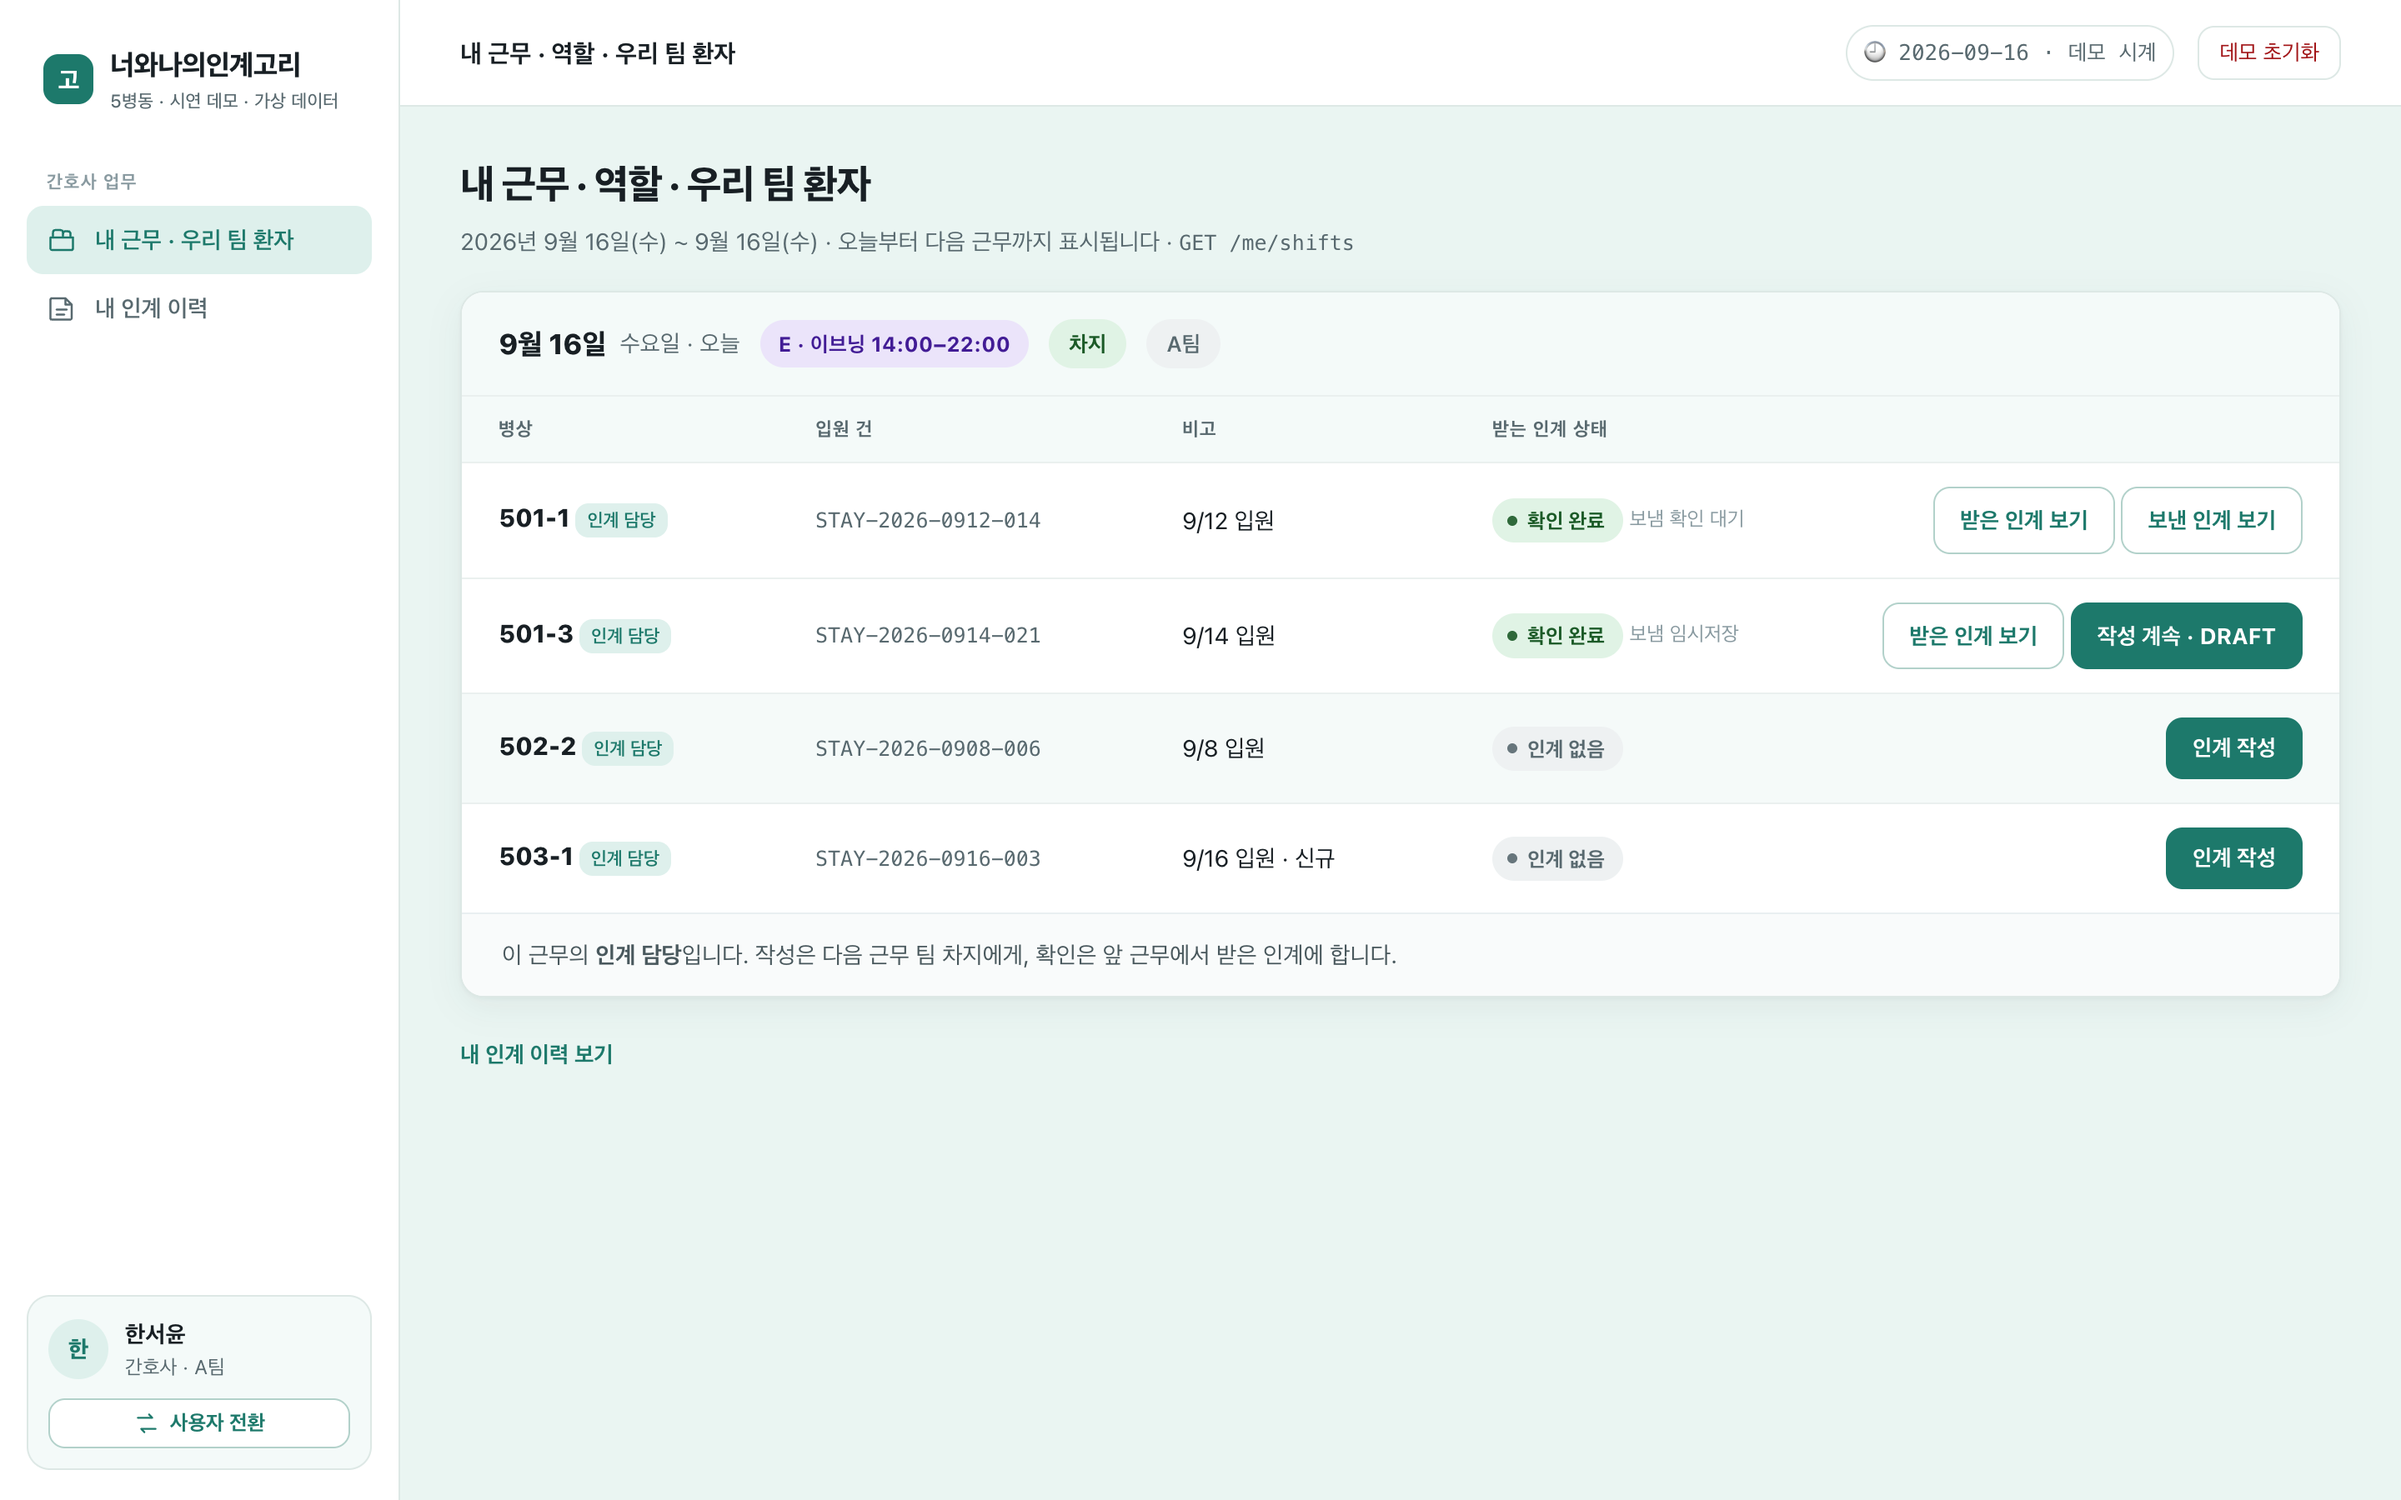
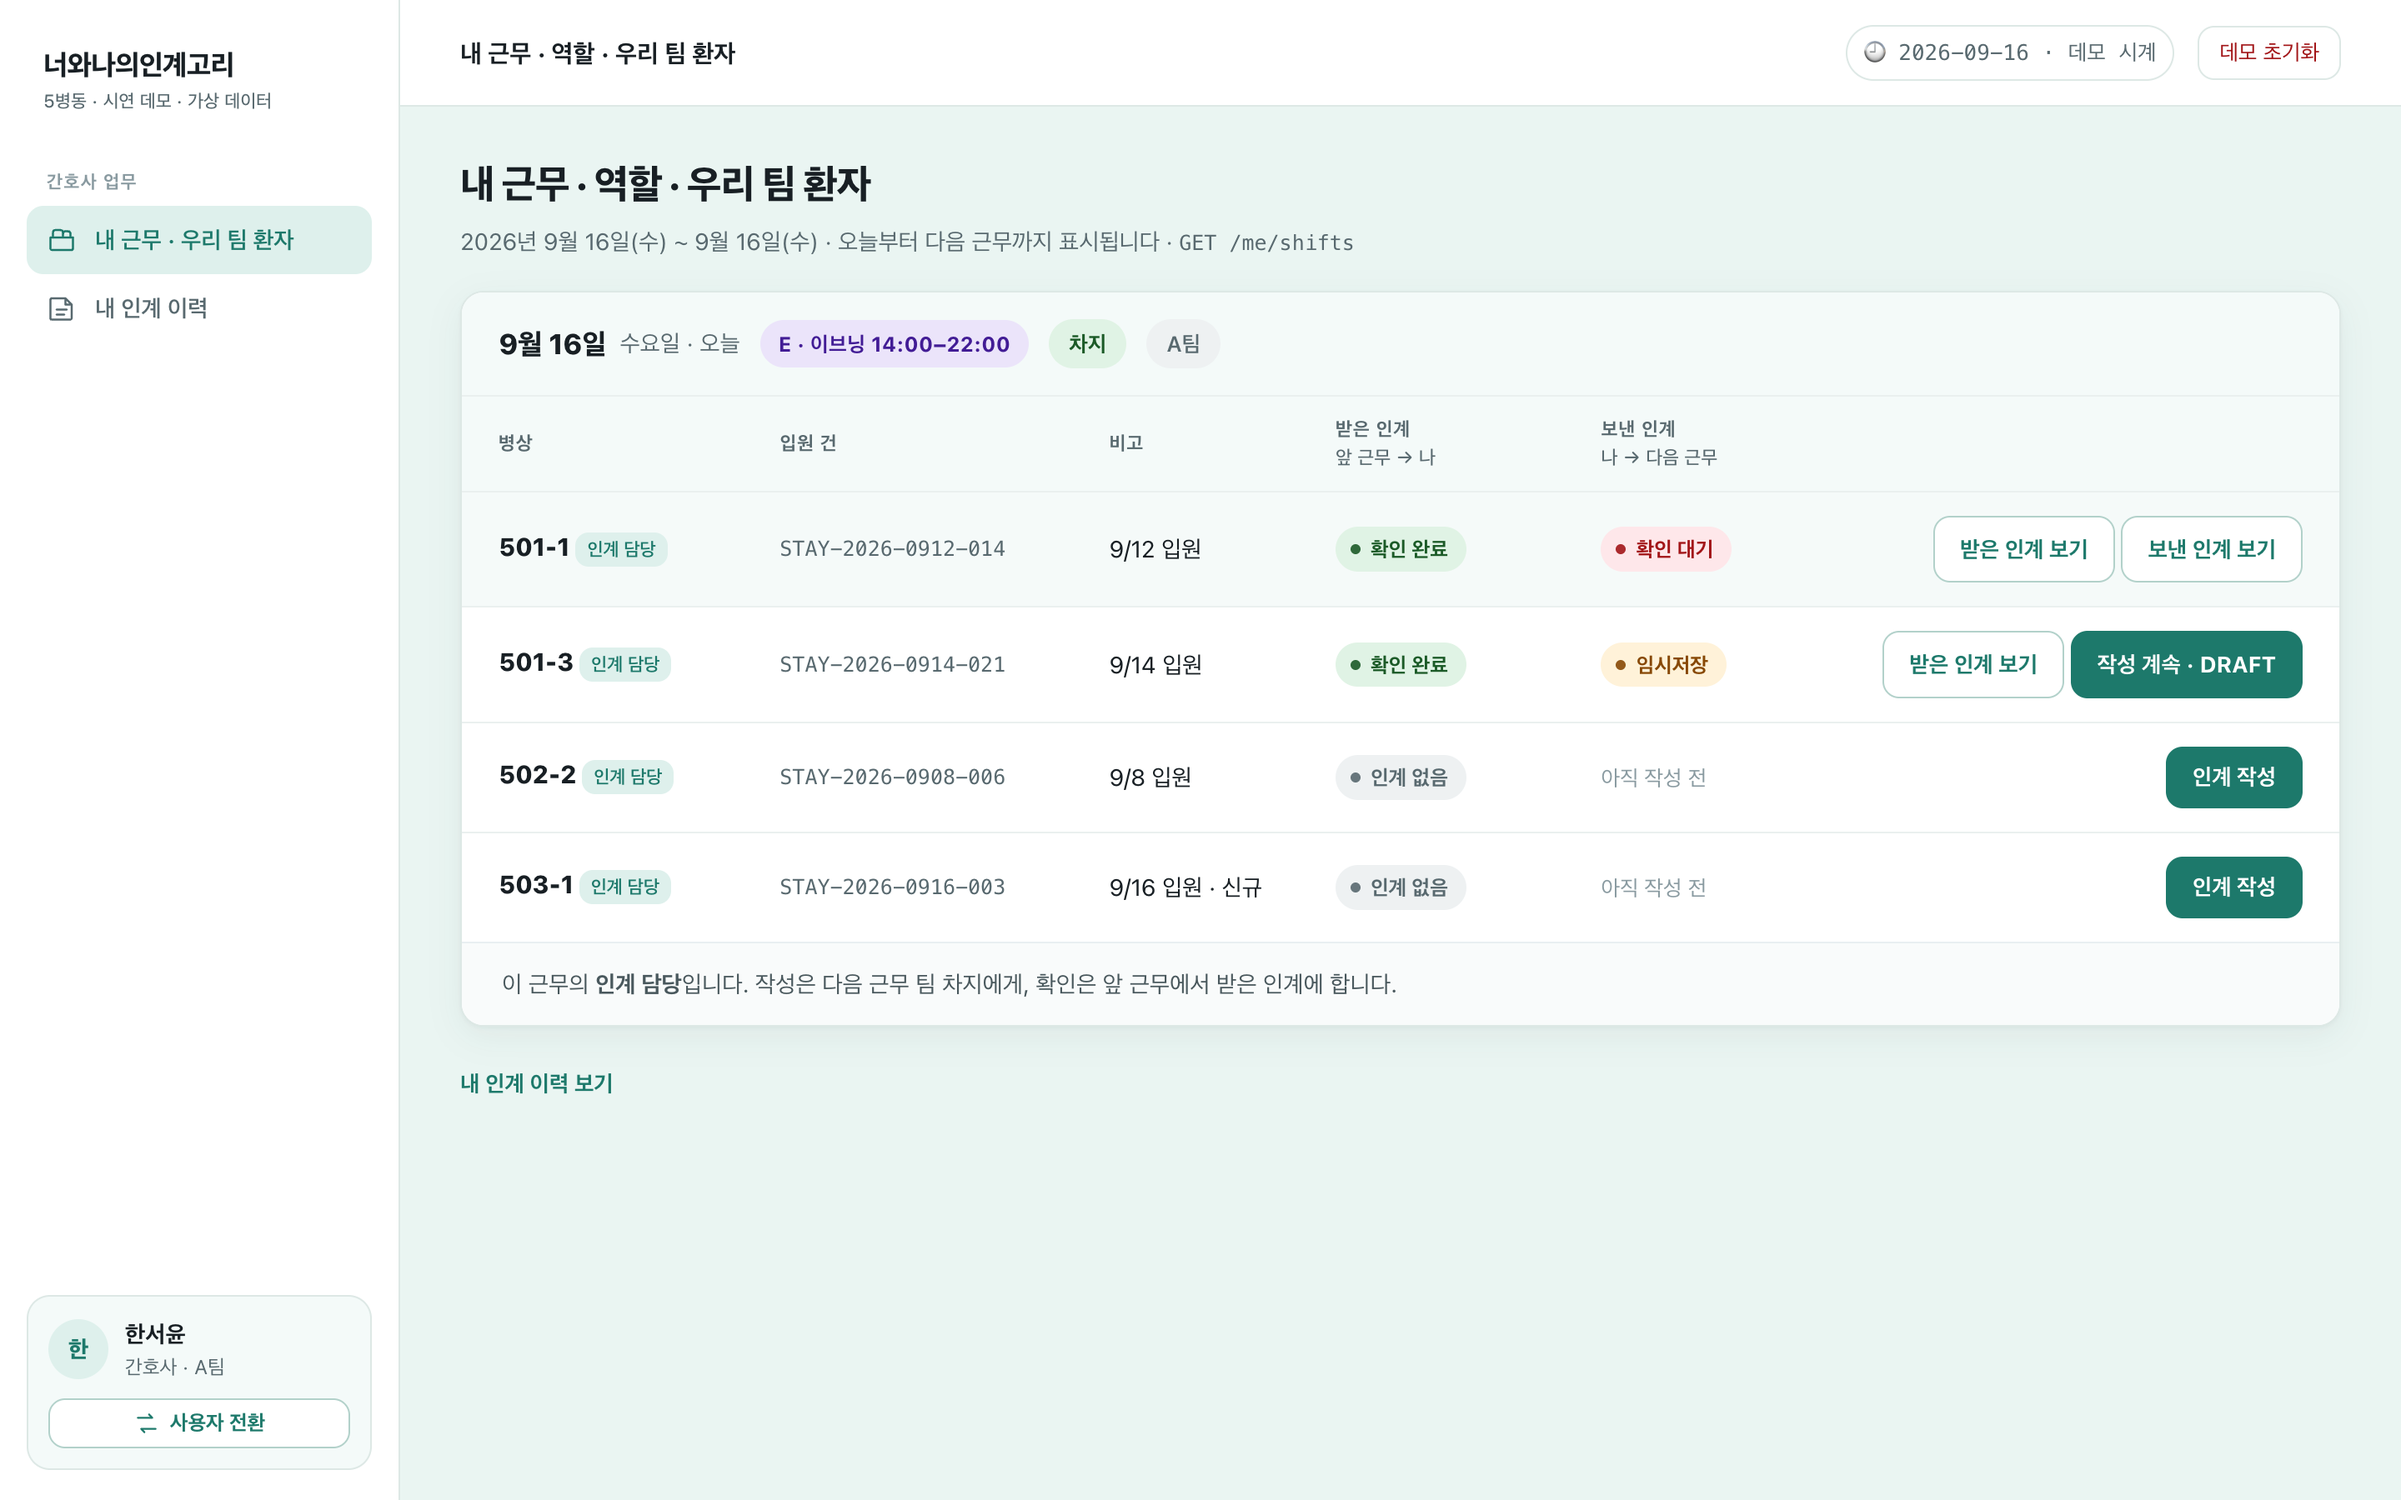
feat: 내 근무 화면 받은/보낸 인계 두 열 분리 · 로고 박스 제거(브랜드=홈 링크) · API 패널 JSON 들여쓰기
- 화면 8: '받는 인계 상태' 한 칸 → '받은 인계(앞 근무→나)' · '보낸 인계(나→다음 근무)'
- 사이드바 브랜드를 홈 링크로(수간호사 대시보드 / 간호사 내 근무), '고' 로고 박스 삭제
- API 로그 패널: 요청/응답을 2칸 들여쓰기 JSON 으로 · 폭 640 · 긴 응답은 앞 60줄
- 캡처 8·8_states 재촬영

diff --git a/demo/css/base.css b/demo/css/base.css
@@ -28,7 +28,8 @@ button{font-family:inherit}
 .side{width:240px;flex:0 0 240px;background:var(--surface);border-right:1px solid var(--line);position:sticky;top:0;height:100vh;display:flex;flex-direction:column;padding:22px 16px 18px}
 body.no-shell .side,body.no-shell .topbar{display:none}
 .main{flex:1;min-width:0;display:flex;flex-direction:column}
-.brand{display:flex;align-items:center;gap:10px;padding:4px 10px 18px;font-size:17px;font-weight:800;letter-spacing:-.4px;color:var(--text)}
+.brand{display:flex;align-items:center;gap:10px;padding:4px 10px 18px;font-size:17px;font-weight:800;letter-spacing:-.4px;color:var(--text);text-decoration:none;border-radius:var(--r-sm);transition:opacity var(--t)}
+.brand:hover{opacity:.75}
 .brand .logo{width:30px;height:30px;border-radius:9px;background:var(--primary);color:#fff;display:inline-flex;align-items:center;justify-content:center;font-size:15px;font-weight:800}
 .brand small{display:block;font-size:11px;font-weight:500;color:var(--muted);letter-spacing:0;margin-top:1px}
 .nav-grp{font-size:11px;font-weight:700;color:var(--muted-2);letter-spacing:.06em;text-transform:uppercase;padding:14px 12px 6px}
@@ -228,7 +229,7 @@ input[type=checkbox]{accent-color:var(--primary);width:16px;height:16px}
 .ucard .order{position:absolute;top:10px;right:10px;width:22px;height:22px;border-radius:50%;background:var(--primary);color:#fff;font-size:12px;font-weight:800;display:inline-flex;align-items:center;justify-content:center}
 
 /* API 패널 — 우하단 알약 */
-.apilog{position:fixed;right:22px;bottom:18px;z-index:9;width:560px;display:flex;flex-direction:column;align-items:flex-end;font-family:ui-monospace,Menlo,Consolas,monospace;font-size:12.5px}
+.apilog{position:fixed;right:22px;bottom:18px;z-index:9;width:640px;display:flex;flex-direction:column;align-items:flex-end;font-family:ui-monospace,Menlo,Consolas,monospace;font-size:12.5px}
 .apilog .bar{display:flex;align-items:center;gap:10px;max-width:100%;padding:9px 14px;border-radius:999px;background:#1F2A30;color:#DDE6E9;cursor:pointer;box-shadow:0 8px 24px rgba(20,40,40,.25);border:2px solid transparent;transition:border-color var(--t)}
 .apilog .bar .lbl{font-weight:800;color:#7FE0D2}
 .apilog .bar .code{color:#fff;font-family:inherit;font-size:12.5px;white-space:nowrap;overflow:hidden;text-overflow:ellipsis}
@@ -236,10 +237,11 @@ input[type=checkbox]{accent-color:var(--primary);width:16px;height:16px}
 .apilog.err .bar{border-color:#FF8A80;animation:shake 320ms ease}
 @keyframes shake{20%{transform:translateX(-4px)}40%{transform:translateX(4px)}60%{transform:translateX(-3px)}80%{transform:translateX(3px)}}
 .apilog .s2{color:#7CD992}.apilog .s4{color:#FF8A80;font-weight:800}
-.apilog .body{display:none;width:100%;max-height:300px;overflow:auto;margin-bottom:8px;background:#1F2A30;color:#DDE6E9;border-radius:var(--r);padding:8px 16px;box-shadow:0 8px 24px rgba(20,40,40,.25);order:-1}
+.apilog .body{display:none;width:100%;max-height:420px;overflow:auto;margin-bottom:8px;background:#1F2A30;color:#DDE6E9;border-radius:var(--r);padding:8px 16px;box-shadow:0 8px 24px rgba(20,40,40,.25);order:-1}
 .apilog.open .body{display:block}
 .apilog .ent{padding:8px 0;border-bottom:1px solid #2C3B42;display:grid;grid-template-columns:44px 1fr;gap:8px}
-.apilog .ent pre{margin:3px 0 0;white-space:pre-wrap;color:#9FB3BA;font-size:11.5px;grid-column:2;word-break:break-all}
+.apilog .ent pre{margin:6px 0 0;white-space:pre;overflow-x:auto;color:#C9D6DB;font-size:11.5px;line-height:1.5;grid-column:2;tab-size:2}
+.apilog .ent pre b{color:#7FE0D2;font-weight:700}
 .apilog .ent .code{color:#fff;font-family:inherit;font-size:12px}
 .btn svg{width:16px;height:16px;flex:0 0 16px;stroke:currentColor;fill:none;stroke-width:1.8;stroke-linecap:round;stroke-linejoin:round}
 #err{scroll-margin-top:84px}

diff --git a/demo/js/views.js b/demo/js/views.js
@@ -274,9 +274,10 @@
           else if (t.is_handover_owner && t.outgoing_status === 'DRAFT') acts.push('<a class="btn" href="#/handover/' + t.outgoing_handover_id + '/write">작성 계속 · DRAFT</a>');
           else if (t.outgoing_handover_id) acts.push('<a class="btn sec" href="#/handover/' + t.outgoing_handover_id + '/write">보낸 인계 보기</a>');
           var act = acts.join(' ') || '<span class="muted">작성은 팀 차지</span>';
-          return '<tr><td class="bed">' + h(t.bed_no) + (t.is_handover_owner ? ' <span class="chip" style="font-size:11px;padding:2px 7px">인계 담당</span>' : '') + '</td><td class="code">' + h(t.patient_ref_code) + '</td><td>' + note + '</td><td>' + A().badge(t.handover_status) + (t.outgoing_status ? ' <span class="muted" style="font-size:12px">보냄 ' + h(A().STATUS_KO[t.outgoing_status]) + '</span>' : '') + '</td><td class="act">' + act + '</td></tr>';
+          var outCell = t.is_handover_owner ? (t.outgoing_status ? A().badge(t.outgoing_status) : '<span class="muted">아직 작성 전</span>') : '<span class="muted">—</span>';
+          return '<tr><td class="bed">' + h(t.bed_no) + (t.is_handover_owner ? ' <span class="chip" style="font-size:11px;padding:2px 7px">인계 담당</span>' : '') + '</td><td class="code">' + h(t.patient_ref_code) + '</td><td style="white-space:nowrap">' + note + '</td><td>' + A().badge(t.handover_status) + '</td><td>' + outCell + '</td><td class="act">' + act + '</td></tr>';
         }).join('');
-        body = '<table><thead><tr><th style="width:190px">병상</th><th style="width:220px">입원 건</th><th>비고</th><th style="width:230px">받는 인계 상태</th><th style="width:300px"></th></tr></thead><tbody>' + rows + '</tbody></table>' +
+        body = '<table><thead><tr><th style="width:170px">병상</th><th style="width:200px">입원 건</th><th style="white-space:nowrap">비고</th><th style="width:160px">받은 인계<br><span style="font-weight:500;text-transform:none;letter-spacing:0">앞 근무 → 나</span></th><th style="width:170px">보낸 인계<br><span style="font-weight:500;text-transform:none;letter-spacing:0">나 → 다음 근무</span></th><th style="width:270px"></th></tr></thead><tbody>' + rows + '</tbody></table>' +
           '<div style="padding:14px 24px;font-size:14px;color:#5B6B70;background:#FAFCFC;border-top:1px solid #EDF2F4">' + (anyOwner ? '이 근무의 <b>인계 담당</b>입니다. 작성은 다음 근무 팀 차지에게, 확인은 앞 근무에서 받은 인계에 합니다.' : '액팅은 우리 팀 인계를 <b>열람</b>합니다. 인계 작성·확인은 이 근무의 <b>' + h(s.team_name) + ' 차지(인계 담당)</b>가 합니다.') + '</div>';
       }
       return '<div class="card"><div class="card-h' + (s.work_date === today ? ' today' : '') + '"><span class="date">' + A().dLabel(s.work_date).replace(/\(.\)$/, '') + '</span><span class="dow">' + A().dow(s.work_date) + (s.work_date === today ? ' · 오늘' : '') + '</span>' + A().shiftTag(s.shift_code) + A().roleBadge(s.role_name) + '<span class="role none">' + h(s.team_name || '—') + '</span><span class="sp"></span>' + (s.is_absent ? '<span class="flag" style="color:#B3261E;background:#FFEDEE;border-color:#F5C6C4">결원 (ABSENT)</span>' : '') + (s.has_reassignment ? '<span class="flag">결원 재배정 이력 있음</span>' : '') + '</div>' + body + '</div>';

diff --git a/demo/js/app.js b/demo/js/app.js
@@ -72,7 +72,7 @@
     var side = document.getElementById('side'), top = document.getElementById('topbar');
     if (noShell) { side.innerHTML = ''; top.innerHTML = ''; return; }
     var nav = NAV[me.user_type].map(function (n) { return '<a href="#/' + n[0] + '" class="' + (r.name === n[0] || (r.name === 'reassign' && n[0] === 'board') || (r.name === 'handover' && n[0] === 'me') ? 'on' : '') + '">' + ICON[n[0]] + '<span>' + n[1] + '</span></a>'; }).join('');
-    side.innerHTML = '<div class="brand"><span class="logo">고</span><span>너와나의인계고리<small>5병동 · 시연 데모 · 가상 데이터</small></span></div>' +
+    side.innerHTML = '<a class="brand" href="' + (me.user_type === 'HEAD_NURSE' ? '#/dashboard' : '#/me') + '" title="내 첫 화면으로"><span>너와나의인계고리<small>5병동 · 시연 데모 · 가상 데이터</small></span></a>' +
       '<div class="nav-grp">' + (me.user_type === 'HEAD_NURSE' ? '수간호사 업무' : '간호사 업무') + '</div><nav class="nav">' + nav + '</nav><div class="sp"></div>' +
       '<div class="ucard-side"><div class="row"><span class="avatar ' + avatarCls(me) + '">' + h(initials(me)) + '</span><div><div class="nm">' + h(me.name) + '</div><div class="rl">' + (me.user_type === 'HEAD_NURSE' ? '수간호사 · 5병동' : '간호사 · ' + h(teamOf(me))) + '</div></div></div>' +
       '<button class="btn sec sm" id="switchUser">' + ICON.swap + ' 사용자 전환</button></div>';
@@ -94,10 +94,17 @@
     if (last) el.innerHTML = line(last);
     document.getElementById('apilogBody').innerHTML = logEntries.slice(0, 12).map(function (e) {
       return '<div class="ent"><span class="' + cls(e.status) + '">' + e.status + '</span><span class="code">' + e.method + ' ' + h(e.path) + ' <span style="opacity:.5">' + h(e.operationId) + '</span></span>' +
-        (e.body ? '<pre>→ ' + h(JSON.stringify(e.body)) + '</pre>' : '') + '<pre>← ' + h(JSON.stringify(e.response).slice(0, 600)) + '</pre></div>';
+        (e.body ? '<pre><b>요청</b>\n' + h(pretty(e.body, 40)) + '</pre>' : '') + '<pre><b>' + (e.status >= 400 ? '오류' : '응답') + '</b>\n' + h(pretty(e.response, 60)) + '</pre></div>';
     }).join('');
   }
   function cls(s) { return s >= 400 ? 's4' : 's2'; }
+  /* 읽기 쉬운 JSON: 2칸 들여쓰기 · 긴 배열은 앞 N줄만 보여주고 "… 외 k건" */
+  function pretty(obj, maxLines) {
+    var txt = JSON.stringify(obj, null, 2);
+    var lines = txt.split('\n');
+    if (lines.length > maxLines) txt = lines.slice(0, maxLines).join('\n') + '\n  … (' + (lines.length - maxLines) + '줄 더 — 전체는 콘솔 Api.invoke 결과)';
+    return txt;
+  }
   function line(e) { return '<span class="' + cls(e.status) + '">' + e.status + '</span> &nbsp;' + e.method + ' ' + h(e.path) + ' <span style="opacity:.5">· ' + h(e.operationId) + (e.status >= 400 ? ' · ' + h(e.response.code) : '') + '</span>'; }
 
   // ---- 시작 ----------------------------------------------------

diff --git a/docs/07_시연-시나리오.md b/docs/07_시연-시나리오.md
@@ -57,7 +57,8 @@ flowchart LR
 ### ② 한서윤 — 인계 작성·전달 (40초)
 
 - 사용자 전환 → **한서윤** → 내 근무 화면
-- 보이는 것: 우리 팀 환자 4건, 각 행에 **인계 담당** 표시 · 501-3 은 **작성 계속 · DRAFT**
+- 보이는 것: 우리 팀 환자 4건, 각 행에 **인계 담당** 표시 · 두 열 — **받은 인계(앞 근무 → 나)** 와 **보낸 인계(나 → 다음 근무)** · 501-3 은 보낸 인계가 **임시저장(DRAFT)**
+- 한 마디: *"왼쪽은 내가 받아 확인한 것, 오른쪽은 내가 다음 근무에 넘길 것. 한 화면에 두 방향이 다 보입니다."*
 - **작성 계속** 클릭 → 인계 작성 화면 → 바로 **인계 넘기기** 클릭
 - 결과: **`422 REQUIRED_ITEMS_EMPTY`** — "필수 항목 2개가 비어 있습니다" 빨간 박스 · 비어 있는 항목명 표시
 - 한 마디: *"병동 공통 필수 항목이 비면 넘길 수 없습니다. 항목은 수간호사가 정하고, 인계마다 스냅샷으로 복사됩니다."*
